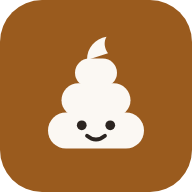
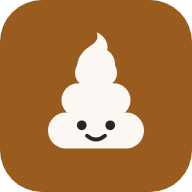
design: キャラクターの頭の形を調整（ボタン・アプリアイコン）

Changed region(s): [[0.375, 0.1562, 0.625, 0.3438], [0.4688, 0.2188, 0.5, 0.25]]

diff --git a/index.html b/index.html
@@ -71,12 +71,12 @@
       </div>
       <div class="record-buttons">
         <button type="button" class="btn-done" id="btn-done" aria-pressed="false">
-          <svg class="poo" viewBox="112 84 288 326" aria-hidden="true" focusable="false">
+          <svg class="poo" viewBox="112 76 288 334" aria-hidden="true" focusable="false">
             <g class="poo-body">
               <rect x="128" y="300" width="256" height="96" rx="48"/>
               <rect x="164" y="222" width="184" height="90" rx="45"/>
               <rect x="200" y="156" width="112" height="76" rx="38"/>
-              <path d="M232 160c0-34 22-56 52-62-8 14-6 30 4 44z"/>
+              <path d="M206 184C204 146 230 130 250 116C260 108 262 98 258 86C280 96 290 116 286 134C302 144 310 162 306 184Z"/>
             </g>
             <g class="poo-shine">
               <rect x="150" y="314" width="70" height="14" rx="7"/>
@@ -92,10 +92,10 @@
           <span class="btn-label">出た</span>
         </button>
         <button type="button" class="btn-little" id="btn-little" aria-pressed="false">
-          <svg class="poo poo-mini" viewBox="0 0 64 52" aria-hidden="true" focusable="false">
+          <svg class="poo poo-mini" viewBox="0 2 64 50" aria-hidden="true" focusable="false">
             <g class="poo-body">
               <rect x="6" y="22" width="52" height="26" rx="13"/>
-              <path d="M24 24c0-10 6-17 15-19-2 4-2 9 1 13z"/>
+              <path d="M19 30C18 22 25 18 30 14C32 12 33 9 32 5C38 8 41 13 40 18C45 20 47 25 46 30Z"/>
             </g>
             <g class="poo-face">
               <circle cx="24" cy="34" r="3"/>

diff --git a/sw.js b/sw.js
@@ -1,6 +1,6 @@
 // service worker: 全アセットをプリキャッシュし、オフラインで動かす。外部オリジンへのリクエストは扱わない。
 // アセットを更新したら VERSION を上げること（古いキャッシュは activate 時に削除される）。
-const VERSION = '8';
+const VERSION = '9';
 const CACHE = `un-deta-${VERSION}`;
 
 const PRECACHE = [

diff --git a/PROGRESS.md b/PROGRESS.md
@@ -261,3 +261,7 @@
 - 経緯: ユーザー要望「カレンダーの点は不要」「出た／ちょっと出たのボタンをそれっぽく」
 - やったこと: `tests/e2e/button-design.spec.js`（ボタンに aria-hidden の SVG と文字ラベル、出たボタンは丸い塗りなし、カレンダーに ::after の点なし、ちょっと出たは枠で未記録と区別）を先に書き Red → 「出た」はアイコンと同じソフトクリーム型のキャラクター（インライン SVG、色は CSS 変数でダーク追従、押すと少しつぶれる）＋大きな文字、「ちょっと出た」は小さい1段のキャラ付きの丸ボタンに。カレンダーの点を削除し、ちょっと出たは細い枠で区別。sw.js VERSION=8（E2E 226件）
 - 失敗と修正: 押下中に CSS の ::before で「✓」を付けたら読み上げ名が「✓ 出た」に変わり既存テストが失敗 → ✓ を削除（押下中は枠で示す）
+
+## 2026-11-27 デザイン調整: キャラクターの頭の形
+- 経緯: ユーザー要望「キャラクターの頭のところがそれっぽくない」
+- やったこと: てっぺんが横に突き出た旗のような形だったため、候補4案を描き比べ、上の段から丸くふくらみ先端が小さく巻く形（A案）を採用。ボタンのキャラクター（viewBox を上に拡張）、ちょっと出たの小アイコン、icons/icon.svg・icon-maskable.svg を同じ形にそろえ、`node scripts/build-icons.mjs` で PNG を再生成。sw.js VERSION=9
